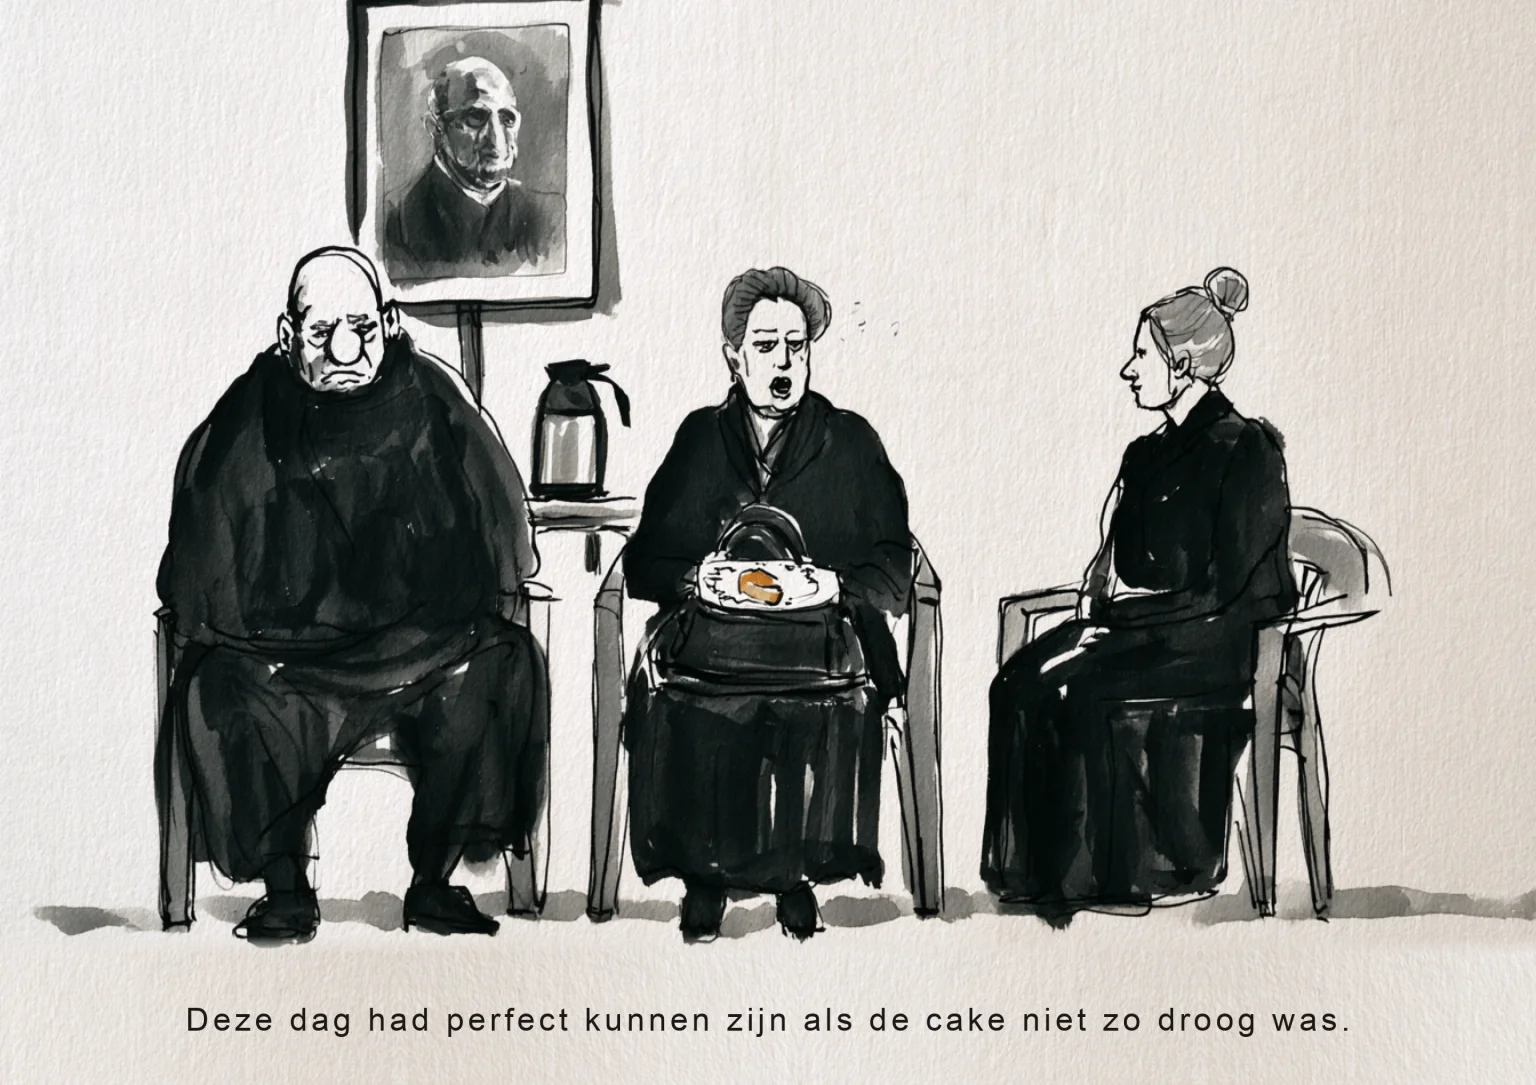
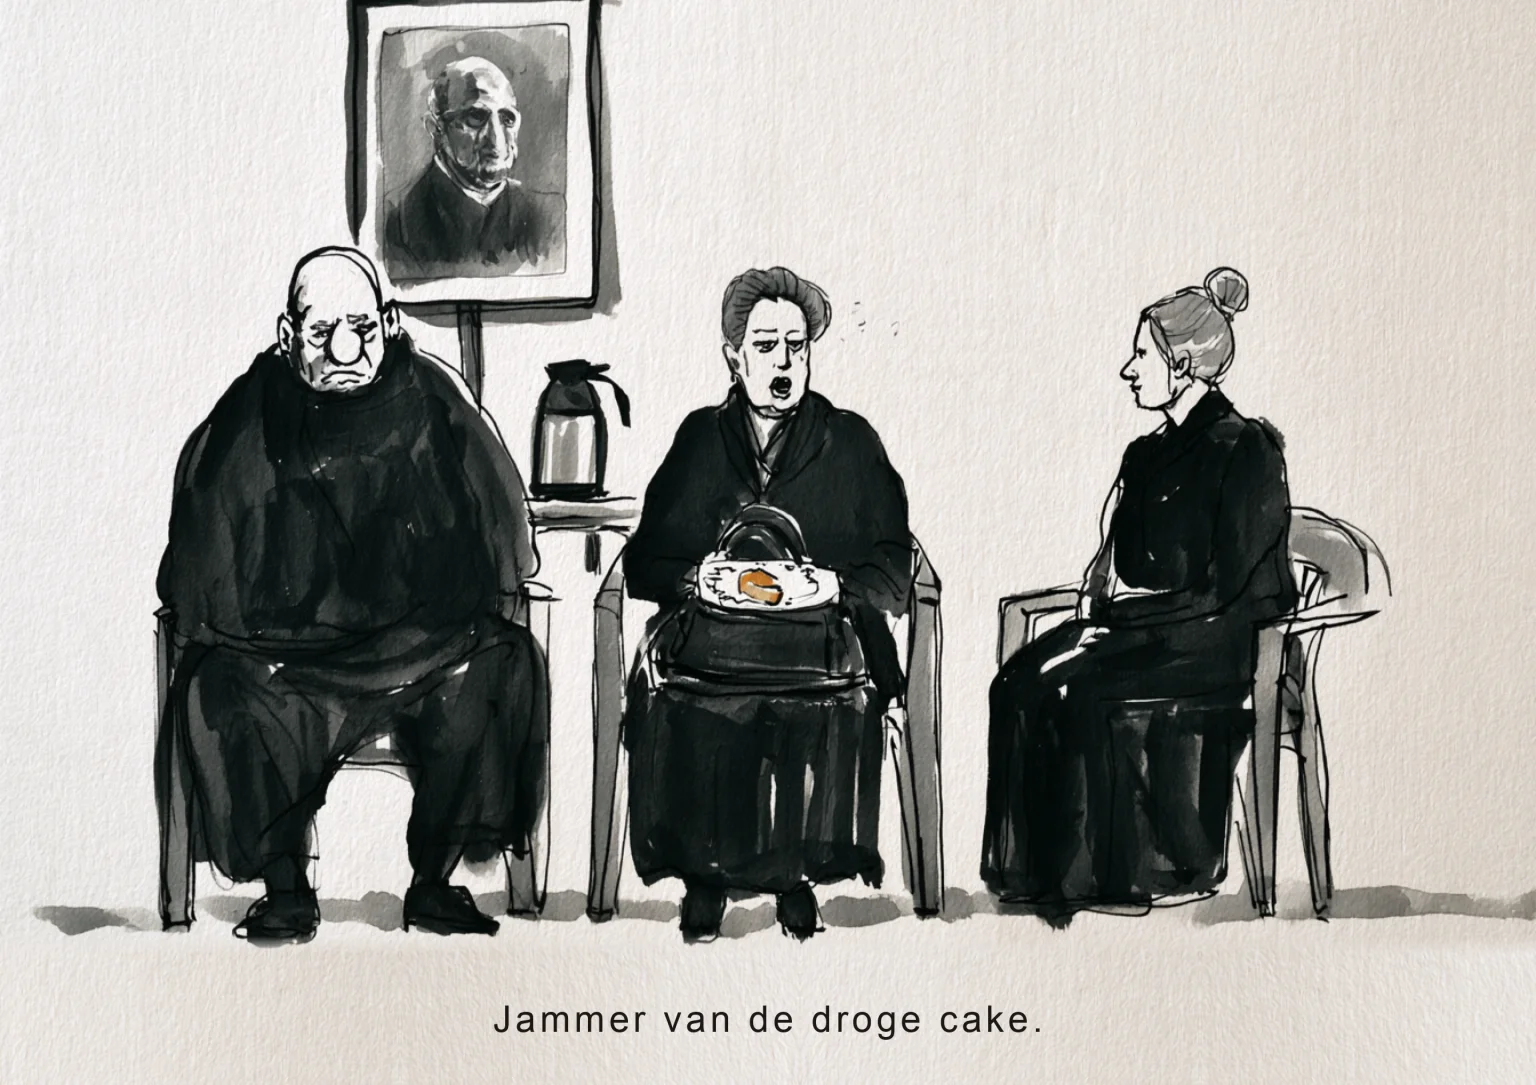
fix: Droge cake met korter onderschrift

Changed region(s): [[0.125, 0.9124, 0.7188, 0.9733], [0.75, 0.9124, 0.875, 0.9733]]

diff --git a/docs/cartoons/index.html b/docs/cartoons/index.html
@@ -128,7 +128,7 @@
     <section class="cartoon">
       <h2>Droge cake</h2>
       <img src="media/droge-cake.webp" width="1536" height="1085" loading="lazy"
-           alt="Een tekening in zwarte inkt en grijze was, zonder kleur: in een kale rouwkamer zitten drie mensen in het zwart op plastic stoelen onder een portretfoto van een oude man op een ezel. Links een dikke kale zwager met een knolneus, rechts een schriele zus met een knotje die opzij kijkt. In het midden zit de weduwe met een handtas op schoot en daarop een bordje met een plakje cake, het enige in kleur. Onderschrift: deze dag had perfect kunnen zijn als de cake niet zo droog was.">
+           alt="Een tekening in zwarte inkt en grijze was, zonder kleur: in een kale rouwkamer zitten drie mensen in het zwart op plastic stoelen onder een portretfoto van een oude man op een ezel. Links een dikke kale zwager met een knolneus, rechts een schriele zus met een knotje die opzij kijkt. In het midden zit de weduwe met een handtas op schoot en daarop een bordje met een plakje cake, het enige in kleur. Onderschrift: jammer van de droge cake.">
     </section>
   </main>
 </body>
